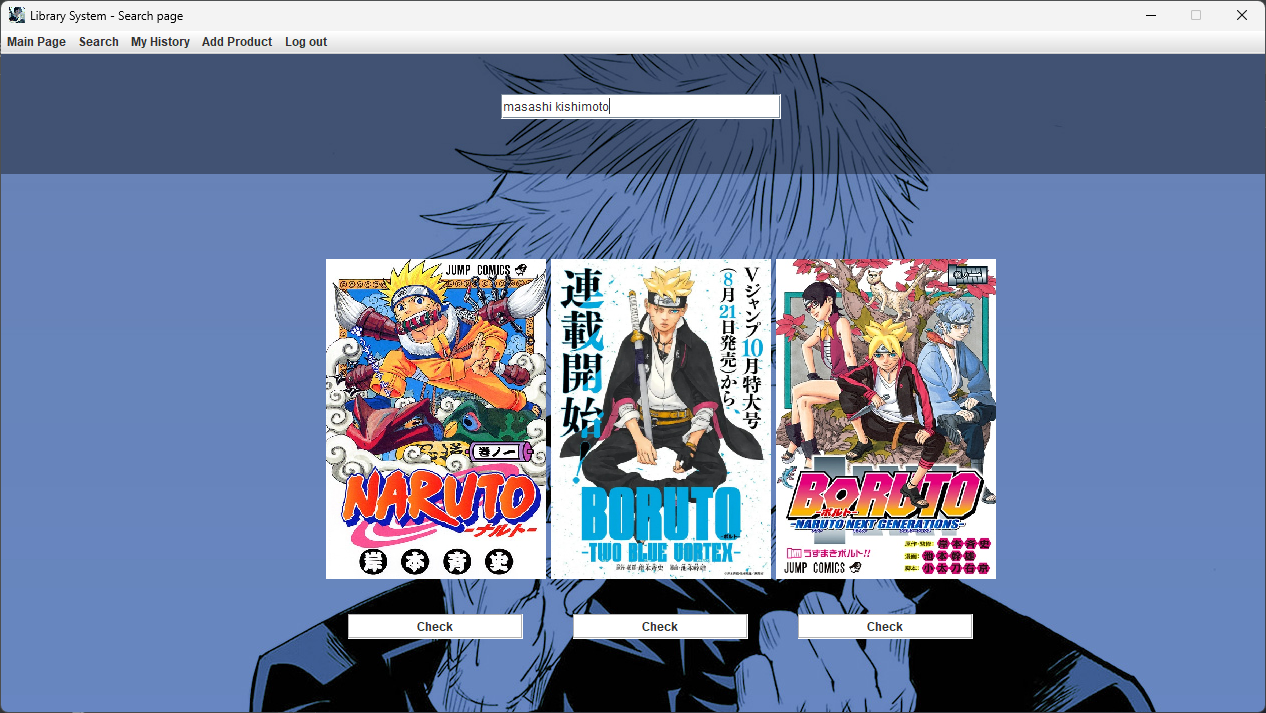
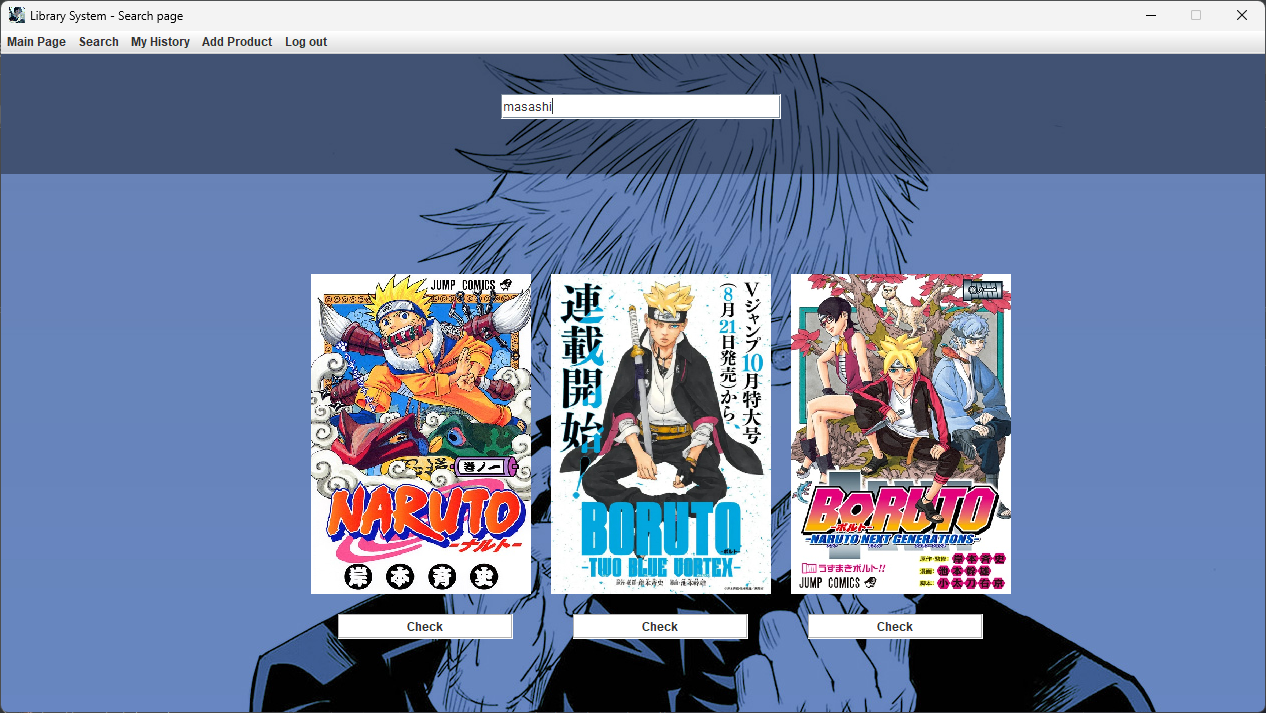
update

diff --git a/src/library_system/SearchPage.java b/src/library_system/SearchPage.java
@@ -34,12 +34,12 @@ public class SearchPage {
         frame.setIconImage(new ImageIcon("src\\mainIcon.jpg").getImage());
 
         row = new JPanel();
-        row.setLayout(new FlowLayout());
+        row.setLayout(new FlowLayout(FlowLayout.CENTER, 20, 20));
         row.setBounds(20, 200, 1280, 500);
         row.setOpaque(false);
 
         buttonRow = new JPanel();
-        buttonRow.setLayout(new FlowLayout(FlowLayout.CENTER, 50, 10));
+        buttonRow.setLayout(new FlowLayout(FlowLayout.CENTER, 60, 10));
         buttonRow.setBounds(20, 550, 1280, 100);
         buttonRow.setOpaque(false);
 
